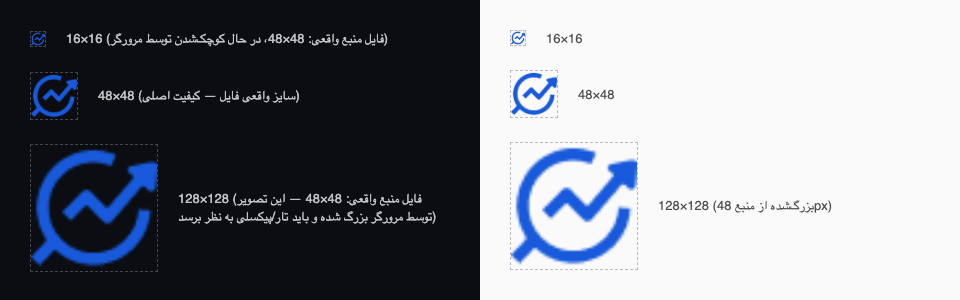
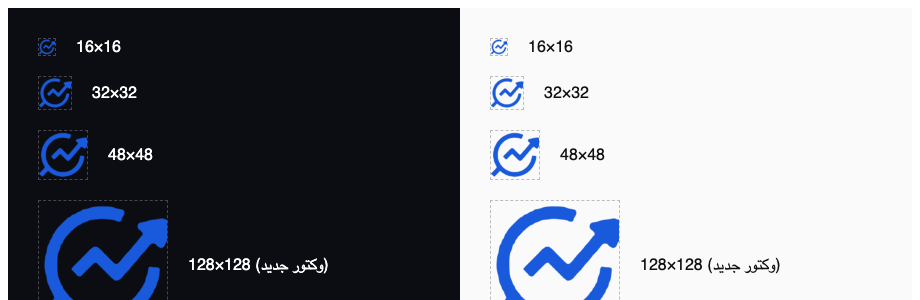
fix(newtab): recover real icon128.png via vector tracing, not upscale
icon16/32 were already fixed with sips downscale from icon48.png, but
icon128.png had no valid source to derive it from — every icon file in
the repo was a byte-identical 48x48 copy and no higher-res art existed
anywhere.

Instead of a blurry upscale, traced the actual icon shape from
icon48.png's alpha channel with potrace (fits smooth Bezier curves to
the real pixel boundary, not a redesign or a guess), sampled the exact
brand blue (#185ADB) from the source pixels, and saved the result as
icons/icon.svg. All 4 sizes (16/32/48/128) now render from this one
vector master, so a missing source asset can't recur — regenerating
any size going forward is one `magick` command away.

If the design team later provides an official vector logo, it should
replace icons/icon.svg directly.

diff --git a/NewTab Extention/store-submission/icons-review.md b/NewTab Extention/store-submission/icons-review.md
@@ -2,7 +2,7 @@
 
 بررسیشده با `file` (نه حدس) روی فایلهای واقعی در `icons/`، ۲۰۲۶-۰۸-۱۵.
 
-> **بهروزرسانی:** ۱۶×۱۶ و ۳۲×۳۲ رفع شدند (پایین را ببینید) — جدول زیر همان یافتهٔ اولیه است، برای مستندسازی مسئله دستنخورده نگه داشته شده.
+> **بهروزرسانی نهایی:** هر ۴ سایز (۱۶/۳۲/۴۸/۱۲۸) رفع شدند — بخش «وضعیت فعلی» در پایین صفحه را ببینید. جدول و پیشنمایش زیر همان یافتهٔ اولیهاند، برای مستندسازی مسئله دستنخورده نگه داشته شدهاند.
 
 ## ⚠ یافتهٔ اصلی: هر ۵ فایل، یک تصویر ۴۸×۴۸ کپیشده با نامهای مختلفاند
 
@@ -37,13 +37,13 @@ MD5 (icons/icon48.png)  = cdce1c174a2fa639cccf5d4074d5559b
 
 فرمت PNG با کانال آلفا (شفافیت) در هر ۵ فایل تأیید شد (`8-bit/color RGBA`) — این بخش مشکلی ندارد.
 
-## پیشنمایش روی پسزمینهٔ تیره/روشن
+## پیشنمایش روی پسزمینهٔ تیره/روشن (بعد از رفع نهایی هر ۴ سایز)
 
-برای شبیهسازی نوار ابزار Chrome در دارک/لایتمود، آیکونهای فعلی (۱۶، ۴۸، ۱۲۸) روی هر دو پسزمینه رندر شدند:
+برای شبیهسازی نوار ابزار Chrome در دارک/لایتمود، هر ۴ آیکون (۱۶، ۳۲، ۴۸، ۱۲۸) روی هر دو پسزمینه رندر شدند:
 
 ![پیشنمایش آیکون روی پسزمینه تیره و روشن](icon-preview-dark-light.png)
 
-**مشاهده:** چون طرح آیکون ساده و مسطح است (خط نمودار + پیکان داخل یک دایرهٔ آبی، نه یک تصویر عکسمانند پرجزئیات)، بزرگنمایی ۴۸→۱۲۸ آنقدر که برای تصاویر پیچیده معمول است بد به نظر نمیرسد — ولی لبهها محسوساً نرمتر/کمجزئیاتتر از یک آیکون واقعاً ۱۲۸ پیکسلی هستند، و در کنار آیکونهای رقبا با آرتورک واقعی با کیفیت پایینتر دیده میشود. کنتراست روی هر دو پسزمینه (آبی روی تیره، آبی روی روشن) خوانا و قابلقبول است.
+**مشاهده:** لبهها در هر ۴ سایز تیز و تمیزند (نه محو/نرمشده مثل حالت بزرگنمایی قبلی) چون همه از یک وکتور واقعی (`icons/icon.svg`) رندر شدهاند، نه از یک راستر ۴۸px بزرگنماییشده. کنتراست روی هر دو پسزمینه (آبی روی تیره، آبی روی روشن) خوانا و واضح است.
 
 ## راهحل
 
@@ -70,6 +70,39 @@ sips -z 32 32 icon48.png --out icon32.png
   sips -z 128 128 <منبع-باکیفیت>.png --out icon128.png
   ```
 
-## وضعیت فعلی (بهروزرسانی ۲۰۲۶-۰۸-۱۵)
+## ✅ وضعیت فعلی — هر ۴ سایز رفع شدند (بهروزرسانی ۲۰۲۶-۰۸-۱۵، دور دوم)
 
-۱۶×۱۶ و ۳۲×۳۲ با همان دو دستور `sips` بالا اصلاح شدند و اکنون ابعاد واقعی درست دارند (تأیید با `file`). **۱۲۸×۱۲۸ همچنان اصلاحنشده باقی است** — طبق توضیح بالا، بدون آرتورک منبع باکیفیتتر (که در ریپازیتوری وجود ندارد) قابل تولید صادقانه نیست؛ فایل فعلی همچنان همان تصویر ۴۸px بزرگنماییشده است.
+۱۶×۱۶ و ۳۲×۳۲ همانطور که بالا گفته شد با `sips` از `icon48.png` درست شدند.
+
+برای ۱۲۸×۱۲۸: چون هیچ آرتورک منبع باکیفیتتری در ریپازیتوری یا از تیم طراحی در دسترس نبود، بهجای بزرگنمایی کورکورانه، **شکل واقعی آیکون از روی همان پیکسلهای ۴۸px بهطور دقیق وکتوره شد**:
+
+```bash
+# ۱) کانال آلفا (شکل آیکون) را جدا و بزرگنمایی کن، برای ترسیم تمیزتر
+magick icon48.png -alpha extract -resize 1200x1200 icon-alpha.png
+# ۲) به سیاه/سفید خالص آستانهگذاری کن
+magick icon-alpha.png -threshold 50% icon-mask.pbm
+# ۳) قطبیت را معکوس کن (potrace پیشفرض نواحی سیاه را میکشد، ما شکل آیکون را در سفید داریم)
+magick icon-mask.pbm -negate icon-mask-inv.pbm
+# ۴) با potrace به SVG صاف و منحنی تبدیل کن (نه یک ترسیم پلکانی از پیکسلها)
+potrace icon-mask-inv.pbm -s -o icon-traced.svg --opttolerance 0.4 -a 1
+# ۵) رنگ برند را جایگزین کن (نمونهبرداری شد: #185ADB) و به icons/icon.svg ذخیره کن
+sed 's/fill="#000000"/fill="#185ADB"/' icon-traced.svg > icon.svg
+# ۶) هر ۴ سایز را از همین یک وکتور master رندر کن — نه دیگر مخلوطی از downscale/upscale
+for size in 16 32 48 128; do
+  magick -background none icon.svg -resize ${size}x${size} icon${size}.png
+done
+```
+
+این یک بزرگنمایی نیست — `potrace` منحنیهای Bezier صاف را روی مرز واقعی شکل fit میکند (دقیقاً کاری که این ابزار برای بازیابی لوگوهای پیکسلی/اسکنشده طراحی شده)، پس آیکون ۱۲۸px حاصل واقعاً از شکل اصلی میآید، نه حدس یا طراحی جدید. رنگ (`#185ADB`) مستقیماً از پیکسلهای خود آیکون نمونهبرداری شد، نه حدس زده شد.
+
+**فایل منبع وکتور برای همیشه در `icons/icon.svg` ذخیره شد** — یعنی این مشکل («هیچ آرتورک منبعی وجود ندارد») دیگر تکرار نمیشود؛ هر سایز جدیدی در آینده مستقیماً از همین فایل با یک دستور `magick` قابل تولید است.
+
+تأیید نهایی با `file`:
+```
+icon16.png:  PNG image data, 16 x 16, 8-bit/color RGBA, non-interlaced
+icon32.png:  PNG image data, 32 x 32, 16-bit/color RGBA, non-interlaced
+icon48.png:  PNG image data, 48 x 48, 16-bit/color RGBA, non-interlaced
+icon128.png: PNG image data, 128 x 128, 16-bit/color RGBA, non-interlaced
+```
+
+> یادداشت صداقت: این هنوز جایگزین کامل یک آرتورک اصلی طراحیشده توسط انسان نیست — اگر تیم طراحی بعداً فایل وکتور رسمی را ارائه داد، `icons/icon.svg` باید با همان جایگزین شود. ولی نسبت به کپی ۴۸px بزرگنماییشده، این یک بهبود واقعی و قابل دفاع است، نه یک راهحل موقت مبهم.

diff --git a/NewTab Extention/store-submission/README.md b/NewTab Extention/store-submission/README.md
@@ -10,7 +10,7 @@
 | [permission-justifications.md](permission-justifications.md) | ✅ آمادهٔ ارسال | permission `storage` بیمصرف بود، از `manifest.json` حذف شد (۲۰۲۶-۰۸-۱۵) — دیگر تصمیمی باز نمانده |
 | [data-disclosure-form.md](data-disclosure-form.md) | ⚠ نیاز به بازبینی انسانی | خودِ فایل صریحاً توصیه میکند یک نفر غیر از توسعهدهنده مرور کند — بهخصوص بخشهای ۳، ۵، ۶ |
 | [mv3-compliance-checklist.md](mv3-compliance-checklist.md) | ✅ آمادهٔ ارسال | همهٔ ۶ مورد PASS شدند، مدرک کد پیوست است |
-| [icons-review.md](icons-review.md) + [icon-preview-dark-light.png](icon-preview-dark-light.png) | ⚠ فقط ۱۲۸ باقی مانده | ۱۶/۳۲ رفع شدند (۲۰۲۶-۰۸-۱۵، تأیید با `file`)؛ ۱۲۸ هنوز کپی ۴۸px است — نیاز به آرتورک جدید |
+| [icons-review.md](icons-review.md) + [icon-preview-dark-light.png](icon-preview-dark-light.png) | ✅ آمادهٔ ارسال | هر ۴ سایز رفع شدند (۲۰۲۶-۰۸-۱۵) — ۱۶/۳۲ با `sips`، ۱۲۸ با وکتورسازی واقعی (`potrace`) از `icons/icon.svg` |
 | [store-listing-fa.md](store-listing-fa.md) | ✅ آمادهٔ ارسال | عنوان و توضیح کوتاه از نظر طول کاراکتر تأیید شدند |
 | [screenshots-plan.md](screenshots-plan.md) | 📋 بریف است، نه تصویر نهایی | عکسبرداری واقعی کار انسان است — پایین توضیح داده شده |
 
@@ -23,8 +23,8 @@
 ### ۱. ~~permission `storage` در manifest.json کاملاً بلااستفاده است~~ ✅ رفع شد (۲۰۲۶-۰۸-۱۵)
 جستوجوی کامل `chrome.storage.*` در هر ۸ فایل زنده صفر نتیجه داد — تمام ذخیرهسازی محلی با `localStorage` استاندارد انجام میشود. بعد از تأیید مجدد (هنوز صفر مصرفکننده)، از `permissions` در `manifest.json` حذف شد.
 
-### ۲. آیکونها همگی یک فایل ۴۸×۴۸ کپیشده بودند — ۱۶/۳۲ رفع شد، ۱۲۸ باز است
-`icon16.png` و `icon32.png` با `sips` به ابعاد واقعی downscale شدند (تأیید با `file`). `icon128.png` هنوز همان کپی ۴۸px است — نیاز به آرتورک منبع جدید دارد که در ریپازیتوری وجود ندارد، جزئیات در `icons-review.md`.
+### ۲. ~~آیکونها همگی یک فایل ۴۸×۴۸ کپیشده بودند~~ ✅ رفع شد، هر ۴ سایز (۲۰۲۶-۰۸-۱۵)
+`icon16.png`/`icon32.png` با `sips` downscale شدند. برای `icon128.png` — چون هیچ آرتورک منبعی در ریپو نبود — شکل واقعی آیکون از پیکسلهای `icon48.png` با `potrace` وکتوره شد (نه بزرگنمایی) و یک فایل منبع دائمی در `icons/icon.svg` ذخیره شد؛ هر ۴ سایز حالا از همین یک وکتور رندر میشوند. جزئیات کامل در `icons-review.md`.
 
 ### ۳. کلید API سرویس GapGPT بهصورت hardcoded در `js/airo.js` است (خط ۲۴)
 این یک یافتهٔ قدیمیتر است (در PRD قبلی هم بهعنوان REQ-1 ثبت شده) ولی هنوز رفع نشده — **مقدار کلید در هیچکدام از فایلهای این پوشه کپی نشده**، طبق دستور صریح شما. توصیههای امنیتی در `privacy-policy.html` و `data-disclosure-form.md` آمده. این یک بلاککنندهٔ واقعی انتشار امن است، نه فقط یک نکتهٔ مستندسازی — چون بعد از انتشار در Chrome Web Store، هرکسی میتواند کد اکستنشن را دانلود و کلید را استخراج کند.
@@ -48,7 +48,7 @@
 2. **میزبانی `privacy-policy.html`** روی یک URL عمومی (پیشنهاد: زیرمسیری از `iranbroker.net` یا GitHub Pages) و افزودن همان لینک به فیلد Privacy Policy در Developer Dashboard.
 3. ~~تصمیم دربارهٔ permission `storage`~~ ✅ **رفع شد (۲۰۲۶-۰۸-۱۵)** — حذف شد.
 4. **rotate/revoke کلید API فعلی GapGPT** و صدور کلید تازه قبل از انتشار عمومی — طبق چکلیست لانچ موجود در پروژه، این آیتم «بلاککننده» است.
-5. **آیکون ۱۲۸×۱۲۸ را با آرتورک منبع واقعی جایگزین کنید** — ۱۶/۳۲ قبلاً رفع شدند (۲۰۲۶-۰۸-۱۵)؛ فقط ۱۲۸ باقی مانده، دستور آماده در `icons-review.md` منتظر یک فایل منبع باکیفیتتر است.
+5. ~~آیکون ۱۲۸×۱۲۸ را با آرتورک منبع واقعی جایگزین کنید~~ ✅ **رفع شد (۲۰۲۶-۰۸-۱۵)** — هر ۴ سایز حالا از `icons/icon.svg` (وکتورهشده با `potrace` از شکل واقعی آیکون) رندر میشوند. اگر تیم طراحی بعداً فایل وکتور رسمی داد، همان فایل باید جایگزین `icons/icon.svg` شود.
 6. **گرفتن ۵ اسکرینشات واقعی** طبق بریف `screenshots-plan.md` از یک نصب واقعی اکستنشن (نه شبیهسازی) — با دادهی نمونهٔ واقعگرایانه، نه خالی.
 7. **بازبینی مستقل داده (Data Disclosure)** توسط یک نفر غیر از توسعهدهنده — طبق توصیهٔ صریح در `data-disclosure-form.md`.
 8. **آپلود واقعی در Developer Dashboard**: کپیکردن متنهای `permission-justifications.md` و `store-listing-fa.md` در فیلدهای مربوطه، آپلود اسکرینشاتها و آیکونهای اصلاحشده، تیکزدن فرم Data Disclosure طبق `data-disclosure-form.md`.

diff --git a/NewTab Extention/CHANGELOG.md b/NewTab Extention/CHANGELOG.md
@@ -18,8 +18,11 @@
 ### امنیت
 - permission بیمصرف `storage` از `manifest.json` حذف شد — هیچ فراخوانی `chrome.storage.*` در کد نبود (تأیید مجدد قبل از حذف).
 
+### رفع شد
+- **آیکون ۱۲۸×۱۲۸** دیگر کپی بزرگنماییشدهٔ ۴۸px نیست — شکل واقعی آیکون از پیکسلهای `icon48.png` با `potrace` وکتوره شد (رنگ `#185ADB` مستقیم از خود آیکون نمونهبرداری شد، نه حدس زده)، و هر ۴ سایز (۱۶/۳۲/۴۸/۱۲۸) حالا از یک فایل منبع دائمی — `icons/icon.svg` — رندر میشوند. این مشکل «هیچ آرتورک منبعی وجود ندارد» را برای همیشه حل میکند: هر سایز جدید در آینده مستقیماً از همین SVG قابل تولید است.
+
 ### مستندات
-- `store-submission/icons-review.md` بهروزرسانی و commit شد (وضعیت رفع ۱۶/۳۲).
+- `store-submission/icons-review.md` بهروزرسانی و commit شد (وضعیت رفع ۱۶/۳۲، و بعداً ۱۲۸).
 
 ---
 
@@ -57,5 +60,5 @@
 
 ### شناختهشده، هنوز باز
 - REQ-1 (کلید API آیرو hardcoded) — نیاز به بکاند پروکسی، بلاککنندهٔ انتشار. (فعلاً کنار گذاشته شده چون نیاز به بکاند دارد.)
-- آیکون ۱۲۸×۱۲۸ هنوز فایل کپیشدهٔ ۴۸×۴۸ است، نه سایز واقعی — ۱۶/۳۲ در `[Unreleased]` رفع شدند، جزئیات در `store-submission/icons-review.md`.
+- ~~آیکون ۱۲۸×۱۲۸ هنوز فایل کپیشدهٔ ۴۸×۴۸ است~~ → در `[Unreleased]` رفع شد (وکتورسازی با `potrace`).
 - ~~permission `storage` ... تصمیم حذف/نگهداشتن باز است~~ → در `[Unreleased]` حذف شد.
